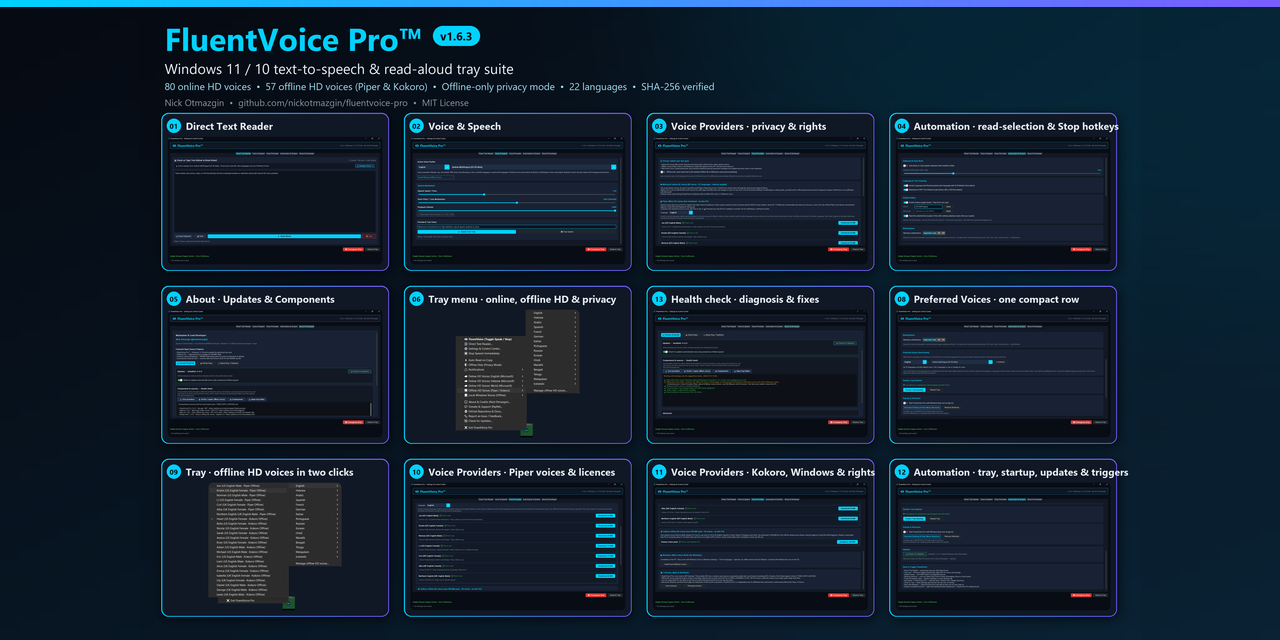
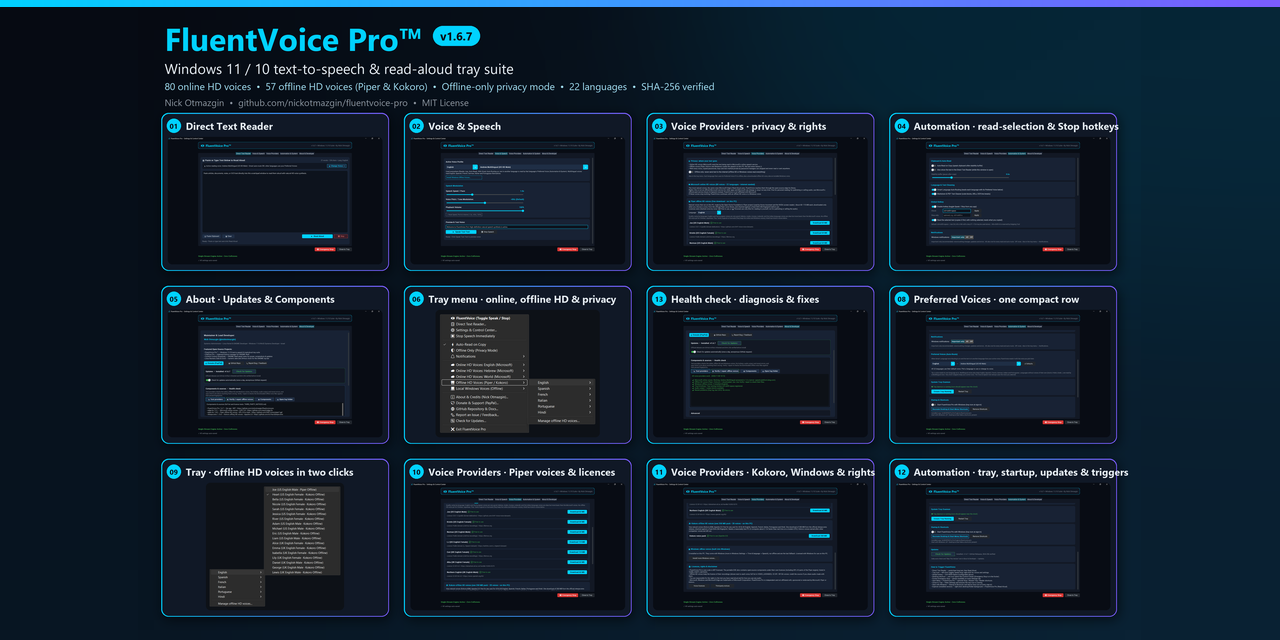
release: 1.6.7 (#89)

diff --git a/fluentvoice/gui.py b/fluentvoice/gui.py
@@ -501,6 +501,7 @@ class FluentVoiceSettingsWindow(ctk.CTk):
             fg_color="#00D2FF",
             hover_color="#33DCFF",
             text_color="#080C14",
+            text_color_disabled="#080C14",  # "Speaking…" stays readable on the cyan button
             font=ctk.CTkFont(weight="bold"),
             width=ACTION_BUTTON_WIDTH,
             command=self._on_reader_speak
@@ -1030,6 +1031,7 @@ class FluentVoiceSettingsWindow(ctk.CTk):
             fg_color="#00D2FF",
             hover_color="#33DCFF",
             text_color="#080C14",
+            text_color_disabled="#080C14",
             font=ctk.CTkFont(size=13, weight="bold"),
             width=ACTION_BUTTON_WIDTH,
             command=self._on_test_speak
@@ -2453,6 +2455,7 @@ class FluentVoiceSettingsWindow(ctk.CTk):
         self.reader_textbox.insert("1.0", shown)
         self._reader_autofilled = bidi_strip(shown).strip()
         self._update_reader_meta()
+        self.reader_status_lbl.configure(text="Shown from Auto-Read on Copy", text_color="#8B949E")
         return True
 
     def _poll_autoread_to_reader(self):

diff --git a/tests/test_safety_limits.py b/tests/test_safety_limits.py
@@ -101,7 +101,8 @@ class FakeTextbox:
 
 
 def _reader(text):
-    win = types.SimpleNamespace(reader_textbox=FakeTextbox(text), _update_reader_meta=lambda: None)
+    win = types.SimpleNamespace(reader_textbox=FakeTextbox(text), _update_reader_meta=lambda: None,
+                                reader_status_lbl=types.SimpleNamespace(configure=lambda **k: None))
     win._reader_accepts_autofill = lambda: gui.FluentVoiceSettingsWindow._reader_accepts_autofill(win)
     return win, gui.FluentVoiceSettingsWindow._fill_reader_from_autoread
 

diff --git a/fluentvoice/__init__.py b/fluentvoice/__init__.py
@@ -2,6 +2,6 @@
 Created by Nick Otmazgin
 """
 
-__version__ = "1.6.6"
+__version__ = "1.6.7"
 __author__ = "Nick Otmazgin"
 __license__ = "MIT"

diff --git a/README.md b/README.md
@@ -17,7 +17,7 @@
 
 Equipped with a **Windows 11 Fluent UI Settings & Control Center**, global single-stream playback locking (zero voice collisions), multi-engine neural voice synthesis, and automatic zero-latency offline fallback.
 
-> **Latest: v1.6.6** — FluentVoice **no longer blocks sign-out, shutdown and Store updates**: it now closes cleanly as soon as Windows asks. v1.6.5: **Kokoro voices download again** after the upstream pack was re-uploaded with identical files ([#78](https://github.com/nickotmazgin/fluentvoice-pro/issues/78)). v1.6.4: online voices are **back on Microsoft's original server** (edge-tts 7.3.1 fixed the 2026 "403" outage), with the v1.6.3 switch to Microsoft's newer server kept as a safety net, and a plain-language message when Microsoft briefly limits requests (HTTP 429). v1.6.3 brought the online voices back during the outage. A new **health check** (About & Developer → Components & sources) tests every voice provider, the hotkeys and audio, and says what to do about anything wrong; **Verify / repair** re-checks downloaded offline voices against their SHA-256. Chinese / Japanese / Korean text with English names is detected correctly, and languages without voices of their own (Dutch, Polish, Greek…) are read by a Multilingual voice and shown by name. v1.6.2 added the read-selection hotkey, an optional Stop hotkey and voice fallback that returns to online. FluentVoice Pro is in the **[Microsoft Store](https://apps.microsoft.com/detail/9N293MJ0MD9F)** (free; updates and Start with Windows are handled by the Store and Windows). Still included since v1.5: **offline HD voices** (Piper & Kokoro, 57 voices in 16 languages, SHA-256 verified), the **Voice Providers** tab, **Offline only** privacy mode. Attested ZIPs + `SHA256SUMS.txt` on [Releases](https://github.com/nickotmazgin/fluentvoice-pro/releases); history in [CHANGELOG.md](CHANGELOG.md).
+> **Latest: v1.6.7** — safety limits for very long or rapid text: Auto-Read on Copy reads at most 10,000 characters, online requests are protected from bursts, huge pastes no longer freeze the window, and offline downloads check free disk space first. New option: **see Auto-Read's text in the Direct Text Reader**. The Settings window stays tidy when maximized. v1.6.6: FluentVoice **no longer blocks sign-out, shutdown and Store updates**: it now closes cleanly as soon as Windows asks. v1.6.5: **Kokoro voices download again** after the upstream pack was re-uploaded with identical files ([#78](https://github.com/nickotmazgin/fluentvoice-pro/issues/78)). v1.6.4: online voices are **back on Microsoft's original server** (edge-tts 7.3.1 fixed the 2026 "403" outage), with the v1.6.3 switch to Microsoft's newer server kept as a safety net, and a plain-language message when Microsoft briefly limits requests (HTTP 429). v1.6.3 brought the online voices back during the outage. A new **health check** (About & Developer → Components & sources) tests every voice provider, the hotkeys and audio, and says what to do about anything wrong; **Verify / repair** re-checks downloaded offline voices against their SHA-256. Chinese / Japanese / Korean text with English names is detected correctly, and languages without voices of their own (Dutch, Polish, Greek…) are read by a Multilingual voice and shown by name. v1.6.2 added the read-selection hotkey, an optional Stop hotkey and voice fallback that returns to online. FluentVoice Pro is in the **[Microsoft Store](https://apps.microsoft.com/detail/9N293MJ0MD9F)** (free; updates and Start with Windows are handled by the Store and Windows). Still included since v1.5: **offline HD voices** (Piper & Kokoro, 57 voices in 16 languages, SHA-256 verified), the **Voice Providers** tab, **Offline only** privacy mode. Attested ZIPs + `SHA256SUMS.txt` on [Releases](https://github.com/nickotmazgin/fluentvoice-pro/releases); history in [CHANGELOG.md](CHANGELOG.md).
 
 > **Keywords:** Windows 11 Desktop App · System Tray Suite · Text to Speech · Read Aloud · Natural Voice Reader · Fluent Design · CustomTkinter · Edge TTS · SAPI OneCore · Clipboard Reader · Scratchpad · Multi-Language · Accessibility · Open Source
 
@@ -25,9 +25,9 @@ Equipped with a **Windows 11 Fluent UI Settings & Control Center**, global singl
 
 ## Demo video
 
-*A quick tour in 78 seconds ([also on YouTube](https://youtu.be/BHun6yWG7-0); real app, real voices; turn the sound on): the Direct Text Reader, English, Hebrew and Japanese each read by their own voice, Voice & Speech, offline HD voices (Piper & Kokoro), Automation & System, the health check and the tray menu.*
+*A quick tour in 2 minutes ([also on YouTube](https://youtu.be/7Z4Ffgz6XLY); real app, real voices; turn the sound on): the Direct Text Reader; English, Hebrew, Japanese, Spanish and Hindi each read by their own voice; Voice & Speech; offline HD voices (Piper & Kokoro); Auto-Read on Copy with the new Reader option; the health check; and the tray icon and menus.*
 
-https://github.com/user-attachments/assets/755a5a8c-8625-41d1-84b2-bdd56776c1ab
+https://github.com/user-attachments/assets/cbb86c6c-89d9-4f65-930a-50c1fb9709cd
 
 Longer and earlier videos: [the full 5-minute tour of v1.6.1](https://youtu.be/jpwKR2xFVRA) (a live Piper download, eight online voices, Preferred Voices, Offline-only mode) and [what's new in v1.6.3](https://youtu.be/z2wI4P4XTtk).
 
@@ -35,84 +35,84 @@ Longer and earlier videos: [the full 5-minute tour of v1.6.1](https://youtu.be/j
 
 ## Screenshots
 
-*FluentVoice Pro **v1.6.3** — click any image to view it full size.*
+*FluentVoice Pro **v1.6.7** — click any image to view it full size.*
 
-[![FluentVoice Pro v1.6.3 collage](screenshots/v1.6.3/collage-v1.6.3.jpg)](screenshots/v1.6.3/collage-v1.6.3.jpg)
+[![FluentVoice Pro v1.6.7 collage](screenshots/v1.6.7/collage-v1.6.7.jpg)](screenshots/v1.6.7/collage-v1.6.7.jpg)
 
 <table>
   <tr>
     <td align="center">
-      <a href="screenshots/v1.6.3/01-settings-reader.png"><img src="screenshots/v1.6.3/01-settings-reader.png" width="260" alt="Direct Text Reader"></a><br>
+      <a href="screenshots/v1.6.7/01-settings-reader.png"><img src="screenshots/v1.6.7/01-settings-reader.png" width="260" alt="Direct Text Reader"></a><br>
       <b>01</b> — Direct Text Reader
     </td>
     <td align="center">
-      <a href="screenshots/v1.6.3/02-settings-voice.png"><img src="screenshots/v1.6.3/02-settings-voice.png" width="260" alt="Voice &amp; Speech"></a><br>
+      <a href="screenshots/v1.6.7/02-settings-voice.png"><img src="screenshots/v1.6.7/02-settings-voice.png" width="260" alt="Voice &amp; Speech"></a><br>
       <b>02</b> — Voice &amp; Speech
     </td>
     <td align="center">
-      <a href="screenshots/v1.6.3/03-settings-voice-providers.png"><img src="screenshots/v1.6.3/03-settings-voice-providers.png" width="260" alt="Voice Providers: privacy, rights &amp; offline HD voices"></a><br>
+      <a href="screenshots/v1.6.7/03-settings-voice-providers.png"><img src="screenshots/v1.6.7/03-settings-voice-providers.png" width="260" alt="Voice Providers: privacy, rights &amp; offline HD voices"></a><br>
       <b>03</b> — Voice Providers · privacy &amp; rights
     </td>
   </tr>
   <tr>
     <td align="center">
-      <a href="screenshots/v1.6.3/04-settings-automation.png"><img src="screenshots/v1.6.3/04-settings-automation.png" width="260" alt="Automation &amp; System: Global Hotkey reads the selection, optional Stop hotkey"></a><br>
+      <a href="screenshots/v1.6.7/04-settings-automation.png"><img src="screenshots/v1.6.7/04-settings-automation.png" width="260" alt="Automation &amp; System: Global Hotkey reads the selection, optional Stop hotkey"></a><br>
       <b>04</b> — Automation · read-selection &amp; Stop hotkeys
     </td>
     <td align="center">
-      <a href="screenshots/v1.6.3/05-settings-about-updates.png"><img src="screenshots/v1.6.3/05-settings-about-updates.png" width="260" alt="About, Updates &amp; Factory Reset"></a><br>
+      <a href="screenshots/v1.6.7/05-settings-about-updates.png"><img src="screenshots/v1.6.7/05-settings-about-updates.png" width="260" alt="About, Updates &amp; Factory Reset"></a><br>
       <b>05</b> — About · Updates &amp; Components
     </td>
     <td align="center">
-      <a href="screenshots/v1.6.3/06-tray-menu.png"><img src="screenshots/v1.6.3/06-tray-menu.png" width="260" alt="Tray right-click menu"></a><br>
+      <a href="screenshots/v1.6.7/06-tray-menu.png"><img src="screenshots/v1.6.7/06-tray-menu.png" width="260" alt="Tray right-click menu"></a><br>
       <b>06</b> — Tray menu · online, offline HD &amp; privacy
     </td>
   </tr>
   <tr>
     <td align="center">
-      <a href="screenshots/v1.6.3/07-tray-icon-closeup.png"><img src="screenshots/v1.6.3/07-tray-icon-closeup.png" width="260" alt="Tray icon: HD and live in the taskbar"></a><br>
-      <b>07</b> — Tray icon · HD + live
+      <a href="screenshots/v1.6.7/07-tray-icon-closeup.png"><img src="screenshots/v1.6.7/07-tray-icon-closeup.png" width="260" alt="Desktop icon and the live tray icon"></a><br>
+      <b>07</b> — Desktop &amp; tray icons
     </td>
     <td align="center">
-      <a href="screenshots/v1.6.3/08-settings-automation-preferred.png"><img src="screenshots/v1.6.3/08-settings-automation-preferred.png" width="260" alt="Preferred Voices: one compact row"></a><br>
+      <a href="screenshots/v1.6.7/08-settings-automation-preferred.png"><img src="screenshots/v1.6.7/08-settings-automation-preferred.png" width="260" alt="Preferred Voices: one compact row"></a><br>
       <b>08</b> — Preferred Voices · one compact row
     </td>
     <td align="center">
-      <a href="screenshots/v1.6.3/09-tray-offline-voices.png"><img src="screenshots/v1.6.3/09-tray-offline-voices.png" width="260" alt="Tray: downloaded offline HD voices by language"></a><br>
+      <a href="screenshots/v1.6.7/09-tray-offline-voices.png"><img src="screenshots/v1.6.7/09-tray-offline-voices.png" width="260" alt="Tray: downloaded offline HD voices by language"></a><br>
       <b>09</b> — Tray · offline HD voices (Piper &amp; Kokoro) in two clicks
     </td>
   </tr>
   <tr>
     <td align="center">
-      <a href="screenshots/v1.6.3/10-settings-voice-providers-mid.png"><img src="screenshots/v1.6.3/10-settings-voice-providers-mid.png" width="260" alt="Voice Providers: Piper voices, each with its licence"></a><br>
+      <a href="screenshots/v1.6.7/10-settings-voice-providers-mid.png"><img src="screenshots/v1.6.7/10-settings-voice-providers-mid.png" width="260" alt="Voice Providers: Piper voices, each with its licence"></a><br>
       <b>10</b> — Voice Providers · Piper voices &amp; licences
     </td>
     <td align="center">
-      <a href="screenshots/v1.6.3/11-settings-voice-providers-bottom.png"><img src="screenshots/v1.6.3/11-settings-voice-providers-bottom.png" width="260" alt="Voice Providers: Kokoro pack, Windows voices, licences and rights"></a><br>
+      <a href="screenshots/v1.6.7/11-settings-voice-providers-bottom.png"><img src="screenshots/v1.6.7/11-settings-voice-providers-bottom.png" width="260" alt="Voice Providers: Kokoro pack, Windows voices, licences and rights"></a><br>
       <b>11</b> — Voice Providers · Kokoro, Windows &amp; rights
     </td>
     <td align="center">
-      <a href="screenshots/v1.6.3/12-settings-automation-bottom.png"><img src="screenshots/v1.6.3/12-settings-automation-bottom.png" width="260" alt="Automation &amp; System: tray, startup, updates and how to trigger FluentVoice"></a><br>
+      <a href="screenshots/v1.6.7/12-settings-automation-bottom.png"><img src="screenshots/v1.6.7/12-settings-automation-bottom.png" width="260" alt="Automation &amp; System: tray, startup, updates and how to trigger FluentVoice"></a><br>
       <b>12</b> — Automation · tray, startup, updates &amp; triggers
     </td>
   </tr>
   <tr>
     <td align="center">
-      <a href="screenshots/v1.6.3/13-settings-health-check.png"><img src="screenshots/v1.6.3/13-settings-health-check.png" width="260" alt="Health check: Test providers with diagnosis and fixes"></a><br>
+      <a href="screenshots/v1.6.7/13-settings-health-check.png"><img src="screenshots/v1.6.7/13-settings-health-check.png" width="260" alt="Health check: Test providers with diagnosis and fixes"></a><br>
       <b>13</b> — Health check · diagnosis &amp; fixes
     </td>
     <td align="center">
-      <a href="screenshots/v1.6.3/14-reader-other-language.png"><img src="screenshots/v1.6.3/14-reader-other-language.png" width="260" alt="Direct Text Reader: Dutch text read by a Multilingual voice"></a><br>
+      <a href="screenshots/v1.6.7/14-reader-other-language.png"><img src="screenshots/v1.6.7/14-reader-other-language.png" width="260" alt="Direct Text Reader: Dutch text read by a Multilingual voice"></a><br>
       <b>14</b> — Any language · Dutch read by a Multilingual voice
     </td>
     <td align="center">
-      <a href="screenshots/v1.6.3/15-settings-about-bottom.png"><img src="screenshots/v1.6.3/15-settings-about-bottom.png" width="260" alt="About &amp; Developer, bottom: components with versions, licences and sources, factory reset"></a><br>
+      <a href="screenshots/v1.6.7/15-settings-about-bottom.png"><img src="screenshots/v1.6.7/15-settings-about-bottom.png" width="260" alt="About &amp; Developer, bottom: components with versions, licences and sources, factory reset"></a><br>
       <b>15</b> — About · components, licences &amp; sources
     </td>
   </tr>
 </table>
 
-Full combined image (download): [collage-v1.6.3.jpg](screenshots/v1.6.3/collage-v1.6.3.jpg)
+Full combined image (download): [collage-v1.6.7.jpg](screenshots/v1.6.7/collage-v1.6.7.jpg)
 
 ---
 

diff --git a/docs/SCREENSHOTS.md b/docs/SCREENSHOTS.md
@@ -1,32 +1,31 @@
-# Screenshots (v1.6.3)
+# Screenshots (v1.6.7)
 
-HD captures for the README, the GitHub social preview, and social posts. In v1.6.3 every Settings
-screen was recaptured (the header shows the version; 08's tip mentions Multilingual reading of other
-languages) and 13–15 are new: the health check, a Dutch text in the Reader, and the bottom of About
-& Developer. The tray captures 06, 07 and 09 are unchanged from v1.6.1.
+HD captures for the README, the GitHub social preview, and social posts. In v1.6.7 every Settings
+screen was recaptured with the tidier layout, and the tray captures 06, 07 and 09 were retaken
+from a live tray.
 
 ## Repo paths
 
 | File | Purpose |
 |------|---------|
-| `screenshots/v1.6.3/collage-v1.6.3.jpg` | README hero collage (3840 wide, 3 across: 01–06, 13, 08–12) |
-| `screenshots/v1.6.3/social-preview-1280x640.jpg` | GitHub OG / link preview: the full collage, 4 across (also `.github/social-preview.{jpg,png}`) |
-| `screenshots/v1.6.3/social-collage-1080.jpg` | Square social post (03, 13, 06, 01) |
-| `screenshots/v1.6.3/01-settings-reader.png` | 01 Direct Text Reader |
-| `screenshots/v1.6.3/02-settings-voice.png` | 02 Voice & Speech |
-| `screenshots/v1.6.3/03-settings-voice-providers.png` | 03 Voice Providers: privacy, rights, Piper / Kokoro downloads |
-| `screenshots/v1.6.3/04-settings-automation.png` | 04 Automation & System (Auto-Read, language, Global Hotkey with Stop-only chord and read-selection switch, notifications) |
-| `screenshots/v1.6.3/05-settings-about-updates.png` | 05 About · Updates and the start of Components & sources |
-| `screenshots/v1.6.3/06-tray-menu.png` | 06 Tray right-click menu (Offline HD Voices submenu open, languages of the downloaded voices) |
-| `screenshots/v1.6.3/07-tray-icon-closeup.png` | 07 Tray icon: HD (drawn by the tray code) + live 20 px capture from the taskbar (README only) |
-| `screenshots/v1.6.3/08-settings-automation-preferred.png` | 08 Automation scrolled to Preferred Voices (one Language ▸ Voice row), tray, startup |
-| `screenshots/v1.6.3/09-tray-offline-voices.png` | 09 Tray → Offline HD Voices → English: the downloaded Piper / Kokoro voices |
-| `screenshots/v1.6.3/10-settings-voice-providers-mid.png` | 10 Voice Providers, middle: Piper voices, each with its licence |
-| `screenshots/v1.6.3/11-settings-voice-providers-bottom.png` | 11 Voice Providers, bottom: Kokoro pack, Windows voices, licences & rights |
-| `screenshots/v1.6.3/12-settings-automation-bottom.png` | 12 Automation & System, bottom: tray, startup & shortcuts, updates, how to trigger FluentVoice |
-| `screenshots/v1.6.3/13-settings-health-check.png` | 13 About → Components & sources after **Test providers**: diagnosis and fixes |
-| `screenshots/v1.6.3/14-reader-other-language.png` | 14 Reader with Dutch text: "Lang: Dutch (Multilingual voice)" (README only) |
-| `screenshots/v1.6.3/15-settings-about-bottom.png` | 15 About, bottom: component versions, licences and sources, Advanced (factory reset) (README only) |
+| `screenshots/v1.6.7/collage-v1.6.7.jpg` | README hero collage (3840 wide, 3 across: 01–06, 13, 08–12) |
+| `screenshots/v1.6.7/social-preview-1280x640.jpg` | GitHub OG / link preview: the full collage, 4 across (also `.github/social-preview.{jpg,png}`) |
+| `screenshots/v1.6.7/social-collage-1080.jpg` | Square social post (03, 13, 06, 01) |
+| `screenshots/v1.6.7/01-settings-reader.png` | 01 Direct Text Reader |
+| `screenshots/v1.6.7/02-settings-voice.png` | 02 Voice & Speech |
+| `screenshots/v1.6.7/03-settings-voice-providers.png` | 03 Voice Providers: privacy, rights, Piper / Kokoro downloads |
+| `screenshots/v1.6.7/04-settings-automation.png` | 04 Automation & System (Auto-Read, language, Global Hotkey with Stop-only chord and read-selection switch, notifications) |
+| `screenshots/v1.6.7/05-settings-about-updates.png` | 05 About · Updates and the start of Components & sources |
+| `screenshots/v1.6.7/06-tray-menu.png` | 06 Tray right-click menu (Offline HD Voices submenu open, languages of the downloaded voices) |
+| `screenshots/v1.6.7/07-tray-icon-closeup.png` | 07 Desktop icon and the live tray icon, enlarged pixel for pixel (README only) |
+| `screenshots/v1.6.7/08-settings-automation-preferred.png` | 08 Automation scrolled to Preferred Voices (one Language ▸ Voice row), tray, startup |
+| `screenshots/v1.6.7/09-tray-offline-voices.png` | 09 Tray → Offline HD Voices → English: the downloaded Piper / Kokoro voices |
+| `screenshots/v1.6.7/10-settings-voice-providers-mid.png` | 10 Voice Providers, middle: Piper voices, each with its licence |
+| `screenshots/v1.6.7/11-settings-voice-providers-bottom.png` | 11 Voice Providers, bottom: Kokoro pack, Windows voices, licences & rights |
+| `screenshots/v1.6.7/12-settings-automation-bottom.png` | 12 Automation & System, bottom: tray, startup & shortcuts, updates, how to trigger FluentVoice |
+| `screenshots/v1.6.7/13-settings-health-check.png` | 13 About → Components & sources after **Test providers**: diagnosis and fixes |
+| `screenshots/v1.6.7/14-reader-other-language.png` | 14 Reader with Dutch text: "Lang: Dutch (Multilingual voice)" (README only) |
+| `screenshots/v1.6.7/15-settings-about-bottom.png` | 15 About, bottom: component versions, licences and sources, Advanced (factory reset) (README only) |
 
 ## Recapture + rebuild
 

diff --git a/CHANGELOG.md b/CHANGELOG.md
@@ -9,6 +9,11 @@ and this project adheres to [Semantic Versioning](https://semver.org/spec/v2.0.0
 
 ## [Unreleased]
 
+## [1.6.7] - 2026-11-08
+
+### Fixed
+- **"Speaking…" is readable.** While reading, the Read Aloud and Speak Test Text buttons showed grey text on bright cyan.
+
 ### Added
 - **Optional: see Auto-Read's text in the Direct Text Reader.** A new switch under Auto-Read on Copy (off by default) shows the copied text in the Reader while the Settings window is open. It only replaces an empty box, the starter text or its own earlier text, so it never overwrites what you typed; private and password-like copies never appear, and the text is not written to disk.
 - **Free-space check before downloading an offline voice.** If the drive is too full, FluentVoice says how much is needed and how much is free, and downloads nothing.
